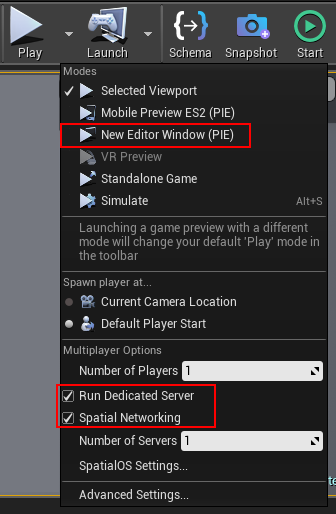
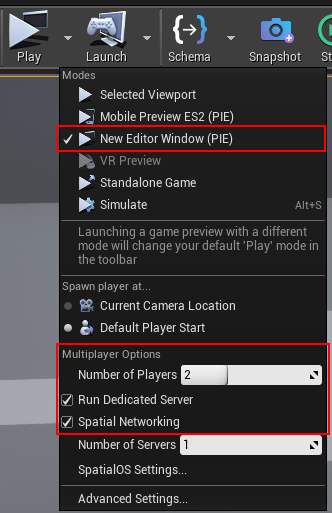
Updated screenshot - added extra Play info

diff --git a/SpatialGDK/Documentation/content/get-started/example-project/exampleproject-local-deployment.md b/SpatialGDK/Documentation/content/get-started/example-project/exampleproject-local-deployment.md
@@ -52,7 +52,9 @@ To launch a local deployment:
 6. Under **Multiplayer Options**, set the number of players to **2** and ensure that the checkbox next to **Run Dedicated Server** is checked. (If it is unchecked, select the checkbox to enable it.)<br/>
    ![Multiplayer Options]({{assetRoot}}assets/set-up-template/template-multiplayer-options.png))<br/>
    _Image: The Unreal Engine **Play** drop-down menu, with **Multiplayer Options** and **New Editor Window (PIE)** highlighted_</br>
-6. Under **Modes**, select **New Editor Window (PIE)** to run the game. 
+6. Under **Modes**, select **New Editor Window (PIE)** to run the game. This starts one SpatialOS server-worker instance and two SpatialOS client-worker instances locally, in your Unreal Editor.
+   The server-worker instance is acting as an Unreal server and the two client-worker instances are acting as two Unreal game clients (as would be used by two game players).
+   You can switch between the two Editor windows to see and interact with each game client. (edited) 
 7. If the game does not run automatically after selecting **New Editor Window (PIE)**, on the Editor toolbar, select **Play** to run the game.
 8. When you’re done, select **Stop** in the GDK toolbar to stop your local SpatialOS deployment.<br/>
    ![Stop]({{assetRoot}}assets/screen-grabs/toolbar/stop-button.png)<br/>
